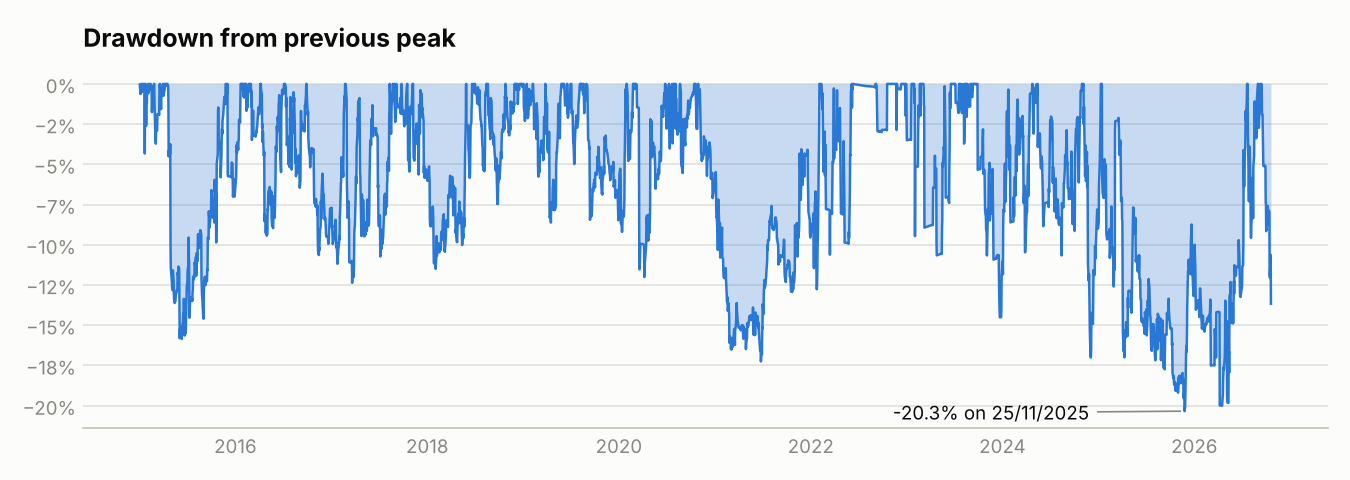
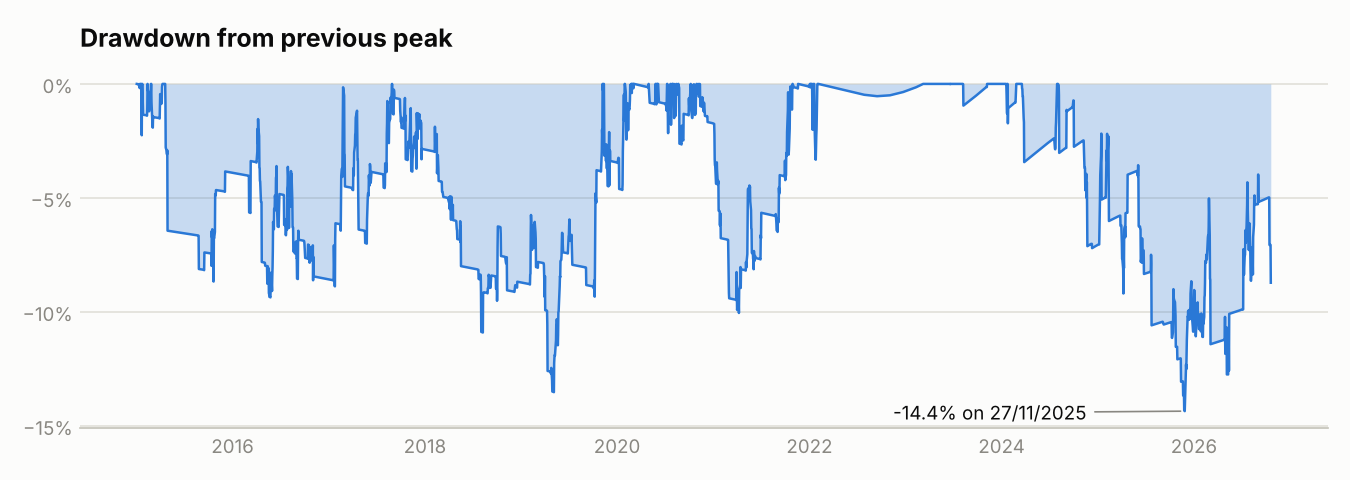
Update charts to v11, add walk-forward chart

diff --git a/scripts/walk_forward.py b/scripts/walk_forward.py
@@ -2,7 +2,7 @@
 
     python scripts/walk_forward.py --data data/raw --config config/v11.yaml --out docs
 
-Writes docs/walk_forward.md and docs/walk_forward.csv.
+Writes docs/walk_forward.md, docs/walk_forward.csv and docs/walk_forward.png.
 """
 
 from __future__ import annotations
@@ -10,10 +10,15 @@ from __future__ import annotations
 import argparse
 from pathlib import Path
 
+import matplotlib
+
+matplotlib.use("Agg")
+import matplotlib.pyplot as plt
 import numpy as np
 import pandas as pd
 
 from fastbb import Config, MarketData, run_backtest
+from fastbb.report import AXIS, BLUE, INK2, MUTED, ORANGE, SURFACE, _fig, _style, buy_and_hold
 from fastbb.walkforward import period_stats, set_param, walk_forward
 
 GRID = {"bund.signal.rsi_period": [10, 14, 20], "bund.signal.vol_max": [0.04, 0.05, 0.06]}
@@ -34,6 +39,27 @@ def bobl_vs_naive(md: MarketData, v10: Config) -> pd.DataFrame:
     return out
 
 
+def plot_walk_forward(oos: pd.DataFrame, fixed: pd.DataFrame, bund_bh: pd.Series, path: Path) -> None:
+    """Out-of-sample NAV vs fixed v11 settings and Bund buy & hold, base 100."""
+    fig, ax = _fig()
+    series = [
+        ("Walk-forward (out-of-sample)", 100 * (1 + oos["ret"]).cumprod(), BLUE, 2.0),
+        ("Fixed v11 settings", 100 * (1 + fixed["ret"]).cumprod(), MUTED, 1.4),
+        ("Bund buy & hold", 100 * bund_bh / bund_bh.iloc[0], ORANGE, 1.4),
+    ]
+    for label, s, color, lw in series:
+        ax.plot(s.index, s, color=color, linewidth=lw, label=label)
+        ax.annotate(f"{s.iloc[-1]:.0f}", (s.index[-1], s.iloc[-1]), xytext=(6, 0), textcoords="offset points",
+                    va="center", fontsize=9, color=INK2)
+    ax.axhline(100, color=AXIS, linewidth=1)
+    ax.legend(frameon=False, fontsize=9, loc="upper left", labelcolor=INK2)
+    _style(ax, "Walk-forward validation, base 100",
+           f"Bund strategy · {oos.index[0]:%d/%m/%Y} – {oos.index[-1]:%d/%m/%Y} · parameters recalibrated each year on the 3 previous years · net of costs")
+    fig.tight_layout()
+    fig.savefig(path, facecolor=SURFACE)
+    plt.close(fig)
+
+
 def pct(x: float) -> str:
     return f"{x:+.1%}"
 
@@ -50,7 +76,10 @@ def main() -> None:
     md = MarketData.from_csv(args.data)
     v11 = Config.from_yaml(args.config)
     wf = walk_forward(md, v11, GRID)
-    fixed = run_backtest(md, v11).portfolio.loc[str(wf.choices.test_year.min()):]
+    res11 = run_backtest(md, v11)
+    first = str(wf.choices.test_year.min())
+    fixed = res11.portfolio.loc[first:]
+    plot_walk_forward(wf.returns, fixed, buy_and_hold(res11)["bund"].loc[first:], out / "walk_forward.png")
     oos, ins = wf.stats, period_stats(fixed)
     ex2020 = period_stats(wf.returns[wf.returns.index.year != 2020])
     wf.choices.to_csv(out / "walk_forward.csv", index=False)

diff --git a/README.md b/README.md
@@ -22,6 +22,8 @@ and every option.
 Each year, the parameters (RSI period, volatility-filter cap) are chosen on the 3 previous years
 only, then frozen and traded for the year. Full table in [docs/walk_forward.md](docs/walk_forward.md).
 
+![Walk-forward](docs/walk_forward.png)
+
 | Metric | Out-of-sample (walk-forward) | Fixed v11 settings |
 |---|---:|---:|
 | Annualised return | 5.9 % | 5.2 % |
